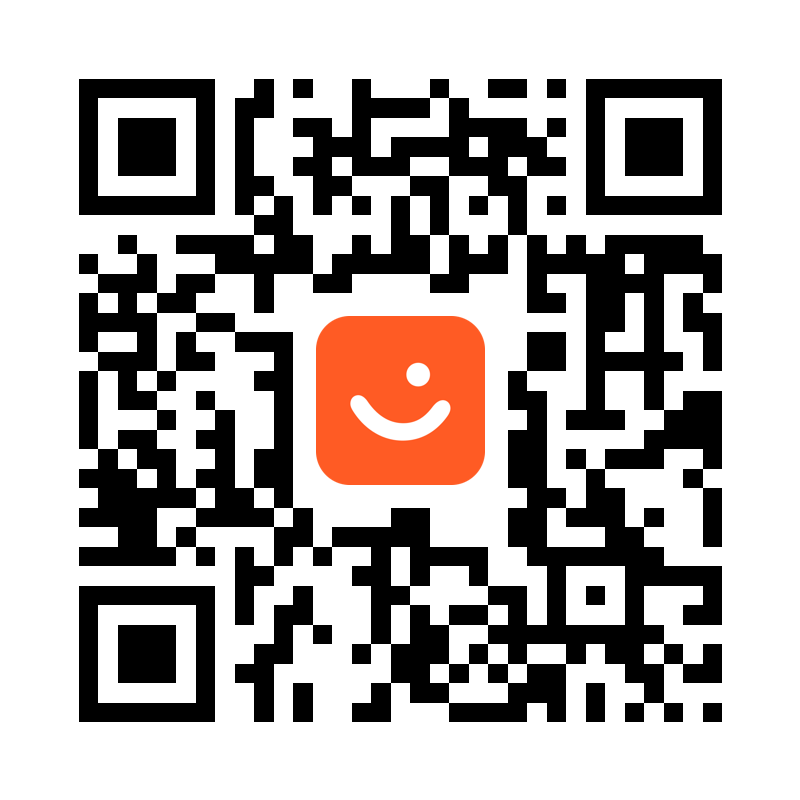
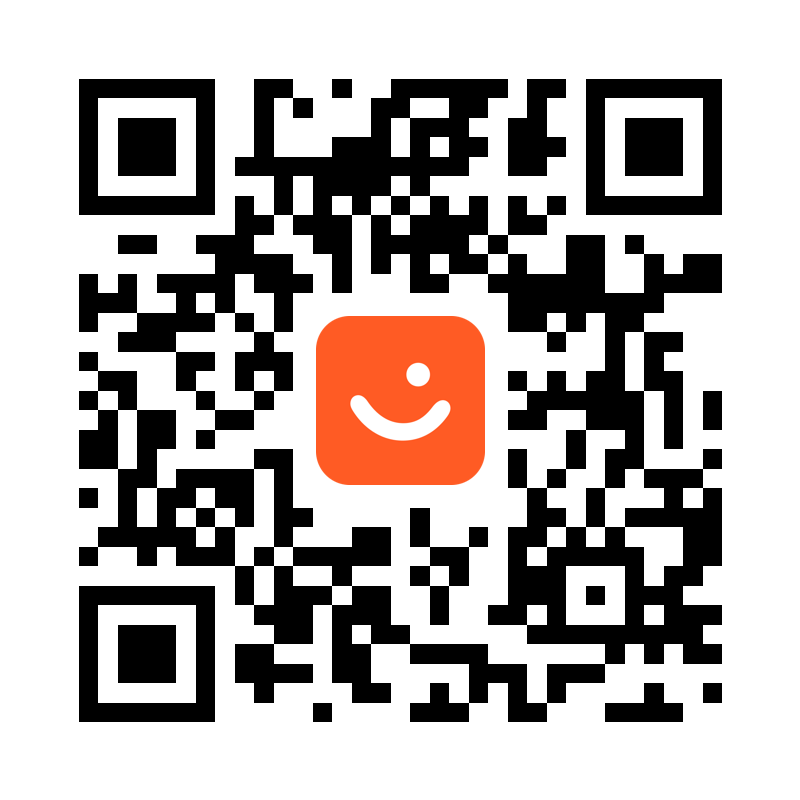
feat: update ContactForm fetch URL and modify Vipps number in Sponsor component

Changed region(s): [[0.0938, 0.0938, 0.9062, 0.9062]]

diff --git a/components/Sponsor/Sponsor.tsx b/components/Sponsor/Sponsor.tsx
@@ -13,35 +13,23 @@ export function Sponsors() {
 						Bueboka utvikles og driftes av frivillige på dugnad. Alle bidrag går direkte til drift av servere og videreutvikling.
 					</p>
 				</div>
-
 				<div className={styles.supportGrid}>
-					{/* Vipps Section */}
 					<div className={`${styles.card} ${styles.vippsCard}`}>
 						<h3 className={styles.cardTitle}>Vipps et valgfritt beløp</h3>
 						<p className={styles.cardDesc}>Skann QR-koden med Vipps-appen eller søk opp vårt nummer.</p>
-
 						<div className={styles.vippsContent}>
 							<div className={styles.qrPlaceholder}>
-								<Image
-									src="/assets/vipps-qr.png"
-									alt="Vipps QR Kode"
-									width={150}
-									height={150}
-									className={styles.qrImage}
-								/>
+								<Image src="/assets/vipps-qr.png" alt="Vipps QR Kode" width={150} height={150} className={styles.qrImage} />
 							</div>
 							<div className={styles.vippsNumberBox}>
 								<span className={styles.vippsLabel}>Vipps-nummer</span>
-								<span className={styles.vippsNumber}>906240</span>
+								<span className={styles.vippsNumber}>44294</span>
 							</div>
 						</div>
 					</div>
-
-					{/* Sponsor Link Section */}
 					<div className={`${styles.card} ${styles.sponsorLinkCard}`}>
 						<h3 className={styles.cardTitle}>For bedrifter</h3>
 						<p className={styles.cardDesc}>Ønsker din bedrift å profilere seg for bueskyttere? Bli en offisiell samarbeidspartner.</p>
-
 						<Link href="/sponsing" className={styles.primaryButton}>
 							<span>Bli sponsor</span>
 							<LuArrowRight size={20} />

diff --git a/components/ContactForm/ContactForm.tsx b/components/ContactForm/ContactForm.tsx
@@ -27,7 +27,7 @@ export function ContactForm() {
 				'bot-field': botField, // honeypot value
 			}).toString();
 
-			const res = await fetch('/form.html', {
+			const res = await fetch('/', {
 				method: 'POST',
 				headers: { 'Content-Type': 'application/x-www-form-urlencoded' },
 				body,
